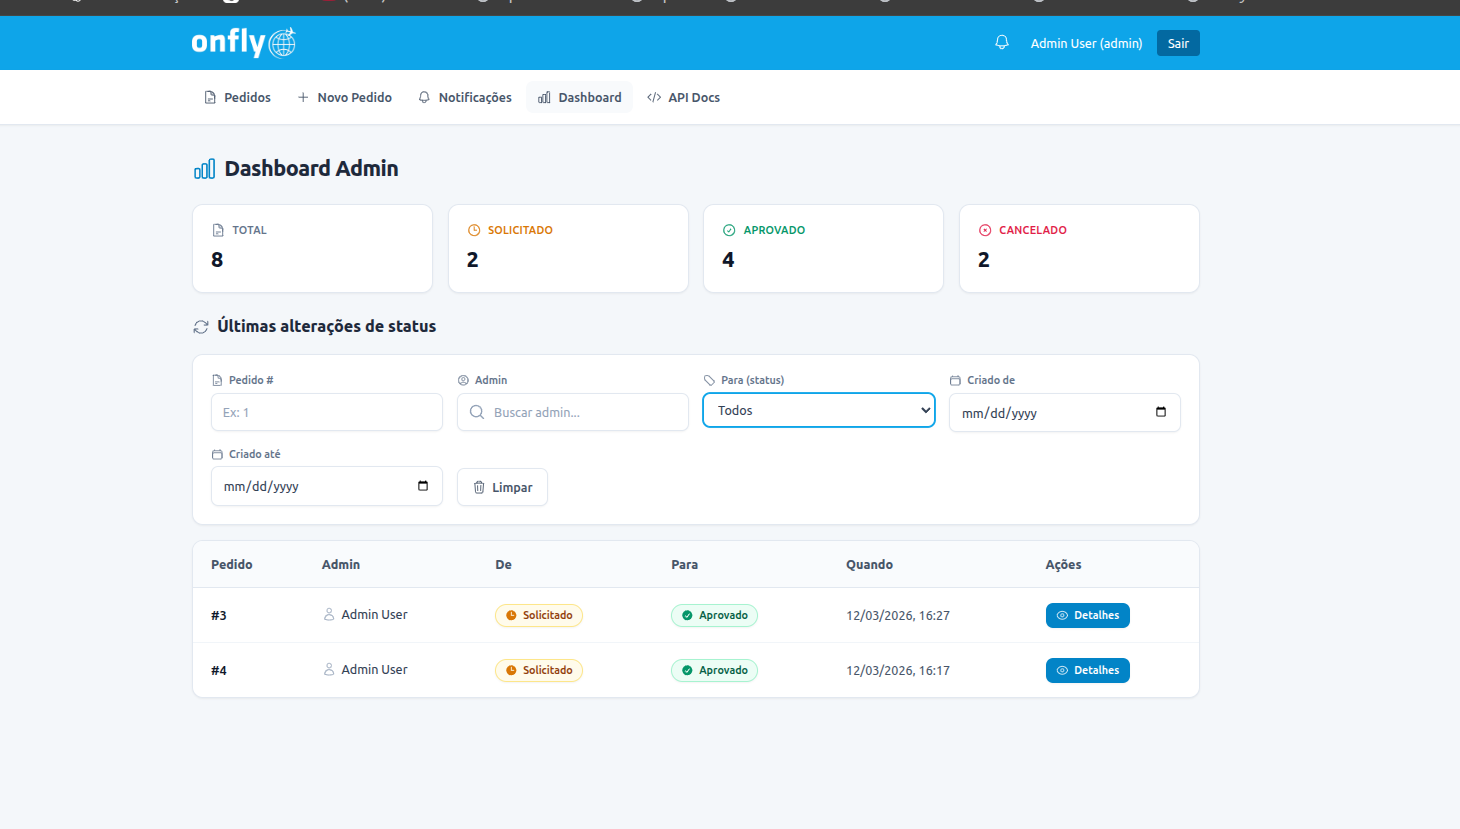
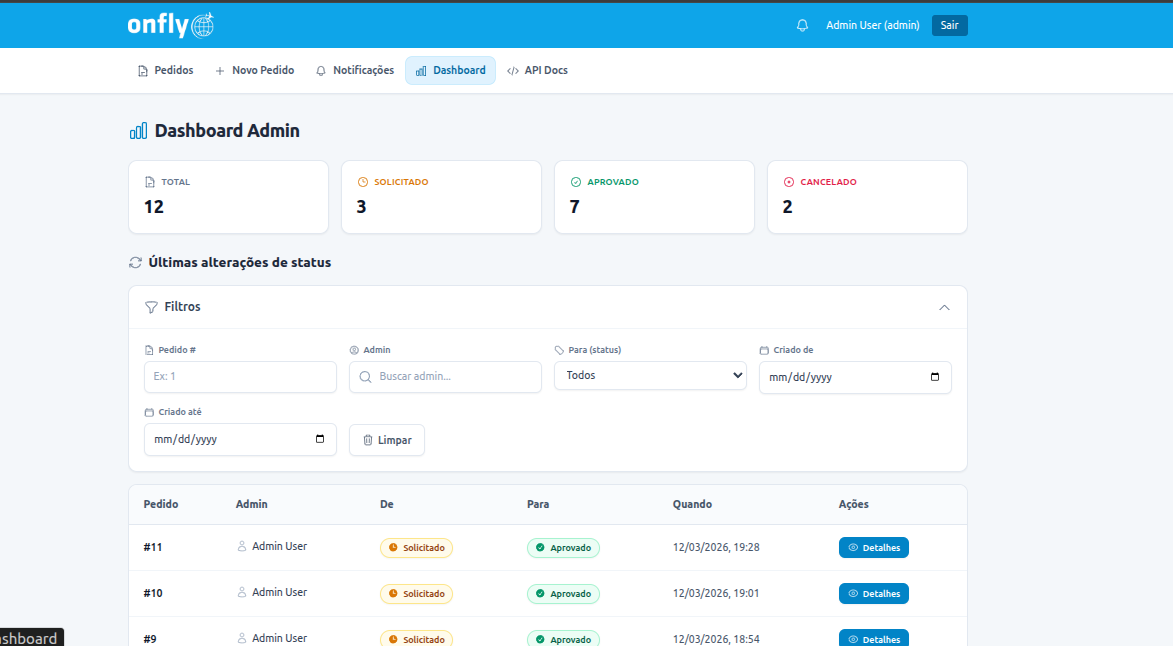
melhorias visuais como toast para notificações lidas.
uso do polling em outros locais e melhoria no readme.

diff --git a/frontend/src/pages/NotificationsPage.vue b/frontend/src/pages/NotificationsPage.vue
@@ -6,6 +6,7 @@ import {
   EyeIcon,
 } from '@heroicons/vue/24/outline'
 import { onMounted, reactive, ref } from 'vue'
+import { usePolling } from '../composables/usePolling'
 import { getErrorMessage } from '../utils/errorMessage'
 import { useToast } from 'vue-toastification'
 import AppLayout from '../layouts/AppLayout.vue'
@@ -26,14 +27,14 @@ const filters = reactive({
   per_page: 10,
 })
 
-async function loadData() {
+async function loadData(opts = {}) {
   try {
-    await notificationStore.fetchList({
-      page: filters.page,
-      per_page: filters.per_page,
-    })
+    await notificationStore.fetchList(
+      { page: filters.page, per_page: filters.per_page },
+      opts
+    )
   } catch (error) {
-    toast.error(getErrorMessage(error))
+    if (!opts.silent) toast.error(getErrorMessage(error))
   }
 }
 
@@ -49,6 +50,7 @@ async function openDetail(travelOrderId) {
 async function markAsRead(notification) {
   try {
     await notificationStore.markAsRead(notification.id)
+    toast.success('Notificação marcada como lida')
   } catch (error) {
     toast.error(getErrorMessage(error))
   }
@@ -73,7 +75,10 @@ function closeDetailModal() {
   detailModalOpen.value = false
 }
 
-onMounted(loadData)
+onMounted(() => {
+  loadData()
+  usePolling(() => loadData({ silent: true }), 15000, { whenVisible: true })
+})
 </script>
 
 <template>

diff --git a/frontend/src/components/NotificationBell.vue b/frontend/src/components/NotificationBell.vue
@@ -2,12 +2,15 @@
 import { BellIcon } from '@heroicons/vue/24/outline'
 import { Menu, MenuButton, MenuItems } from '@headlessui/vue'
 import { onMounted, watch } from 'vue'
-import { usePolling } from '../composables/usePolling'
 import { useRouter } from 'vue-router'
+import { useToast } from 'vue-toastification'
+import { getErrorMessage } from '../utils/errorMessage'
+import { usePolling } from '../composables/usePolling'
 import StatusBadge from './StatusBadge.vue'
 import { useNotificationStore } from '../stores/notificationStore'
 
 const router = useRouter()
+const toast = useToast()
 const notificationStore = useNotificationStore()
 
 async function loadUnread() {
@@ -25,7 +28,12 @@ function formatDate(dateStr) {
 }
 
 async function handleMarkAsRead(notification) {
-  await notificationStore.markAsRead(notification.id)
+  try {
+    await notificationStore.markAsRead(notification.id)
+    toast.success('Notificação marcada como lida')
+  } catch (error) {
+    toast.error(getErrorMessage(error))
+  }
 }
 
 function goToAll() {

diff --git a/frontend/src/pages/DashboardPage.vue b/frontend/src/pages/DashboardPage.vue
@@ -8,6 +8,7 @@ import {
   XCircleIcon,
 } from '@heroicons/vue/24/outline'
 import { onMounted, reactive, ref } from 'vue'
+import { usePolling } from '../composables/usePolling'
 import { getErrorMessage } from '../utils/errorMessage'
 import { useToast } from 'vue-toastification'
 import AppLayout from '../layouts/AppLayout.vue'
@@ -30,14 +31,14 @@ const logFilters = reactive({
   per_page: 10,
 })
 
-async function loadData() {
+async function loadData(opts = {}) {
   try {
     await Promise.all([
       travelOrderStore.fetchDashboard(),
       travelOrderStore.fetchStatusLogs(logFilters),
     ])
   } catch (error) {
-    toast.error(getErrorMessage(error))
+    if (!opts.silent) toast.error(getErrorMessage(error))
   }
 }
 
@@ -50,7 +51,10 @@ async function openDetail(travelOrderId) {
   }
 }
 
-onMounted(loadData)
+onMounted(() => {
+  loadData()
+  usePolling(() => loadData({ silent: true }), 15000, { whenVisible: true })
+})
 </script>
 
 <template>

diff --git a/frontend/src/stores/notificationStore.js b/frontend/src/stores/notificationStore.js
@@ -16,8 +16,9 @@ export const useNotificationStore = defineStore('notifications', {
       this.unreadItems = data.data
       return data
     },
-    async fetchList(params = {}) {
-      this.loading = true
+    async fetchList(params = {}, options = {}) {
+      const silent = options.silent === true
+      if (!silent) this.loading = true
       try {
         const data = await listNotifications(params)
         this.items = data.data
@@ -25,7 +26,7 @@ export const useNotificationStore = defineStore('notifications', {
         this.links = data.links || null
         return data
       } finally {
-        this.loading = false
+        if (!silent) this.loading = false
       }
     },
     async fetchUnreadCount() {

diff --git a/backend/database/factories/TravelOrderFactory.php b/backend/database/factories/TravelOrderFactory.php
@@ -12,19 +12,30 @@ use Illuminate\Database\Eloquent\Factories\Factory;
  */
 class TravelOrderFactory extends Factory
 {
-    /**
-     * Define the model's default state.
-     *
-     * @return array<string, mixed>
-     */
+    private const REQUESTERS = [
+        'João Silva', 'Maria Santos', 'Ana Paula Oliveira', 'Carlos Eduardo Souza',
+        'Fernanda Costa', 'Roberto Almeida', 'Juliana Mendes', 'Pedro Henrique Lima',
+        'Camila Rodrigues', 'Lucas Ferreira', 'Amanda Pereira', 'Rafael Barbosa',
+        'Patricia Nascimento', 'Bruno Carvalho', 'Larissa Martins',
+    ];
+
+    private const DESTINATIONS = [
+        'São Paulo', 'Rio de Janeiro', 'Lisboa', 'Barcelona', 'Paris', 'Nova York',
+        'Salvador', 'Florianópolis', 'Curitiba', 'Belo Horizonte', 'Porto Alegre',
+        'Madrid', 'Londres', 'Buenos Aires', 'Santiago',
+    ];
+
     public function definition(): array
     {
+        $departure = now()->addDays(fake()->numberBetween(1, 30));
+        $return = $departure->copy()->addDays(fake()->numberBetween(3, 14));
+
         return [
             'user_id' => User::factory(),
-            'requester_name' => fake()->name(),
-            'destination' => fake()->city(),
-            'departure_date' => now()->addDays(fake()->numberBetween(1, 30))->toDateString(),
-            'return_date' => now()->addDays(fake()->numberBetween(31, 60))->toDateString(),
+            'requester_name' => fake()->randomElement(self::REQUESTERS),
+            'destination' => fake()->randomElement(self::DESTINATIONS),
+            'departure_date' => $departure->toDateString(),
+            'return_date' => $return->toDateString(),
             'status' => fake()->randomElement([
                 TravelOrderStatusEnum::Requested->value,
                 TravelOrderStatusEnum::Approved->value,

diff --git a/backend/database/seeders/TravelOrderSeeder.php b/backend/database/seeders/TravelOrderSeeder.php
@@ -14,12 +14,16 @@ class TravelOrderSeeder extends Seeder
         $admin = User::query()->where('email', 'admin@admin.com')->first();
         $user = User::query()->where('email', 'user@user.com')->first();
 
-        TravelOrder::factory()->count(4)->for($user)->create([
+        TravelOrder::factory()->count(6)->for($user)->create([
             'status' => TravelOrderStatusEnum::Requested->value,
         ]);
 
-        TravelOrder::factory()->count(2)->for($user)->create([
+        TravelOrder::factory()->count(5)->for($user)->create([
             'status' => TravelOrderStatusEnum::Approved->value,
+        ]);
+
+        TravelOrder::factory()->count(2)->for($user)->create([
+            'status' => TravelOrderStatusEnum::Cancelled->value,
         ]);
 
         TravelOrder::factory()->count(2)->for($admin)->create();
